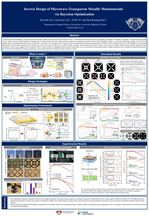
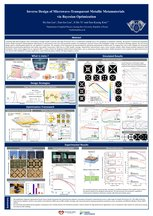
Add the OSK poster to publications; sharper poster image in news

diff --git a/_news/2026-02-01-osk-poster.md b/_news/2026-02-01-osk-poster.md
@@ -5,4 +5,4 @@ inline: true
 related_posts: false
 ---
 
-{% include news_image.liquid src="assets/img/news/2026-02-01-osk-poster.jpg" alt="OSK 2026 poster" %}Presented a poster on the inverse design of microwave-transparent metallic metamaterials via Bayesian optimization at the 37th OSK Annual Meeting & 2026 Winter Conference, Busan.
+{% include news_image.liquid src="assets/img/news/2026-02-01-osk-poster.jpg" alt="Poster presented at the 37th OSK Annual Meeting & 2026 Winter Conference" %}Presented a poster on the inverse design of microwave-transparent metallic metamaterials via Bayesian optimization at the 37th OSK Annual Meeting & 2026 Winter Conference, Busan.
